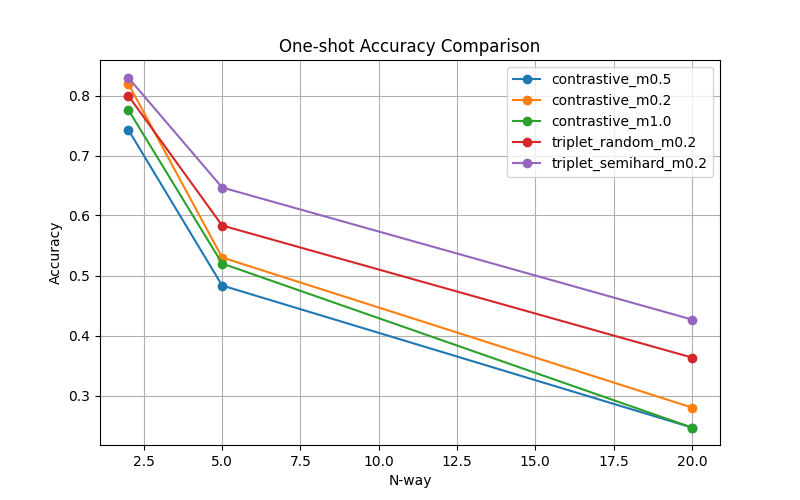
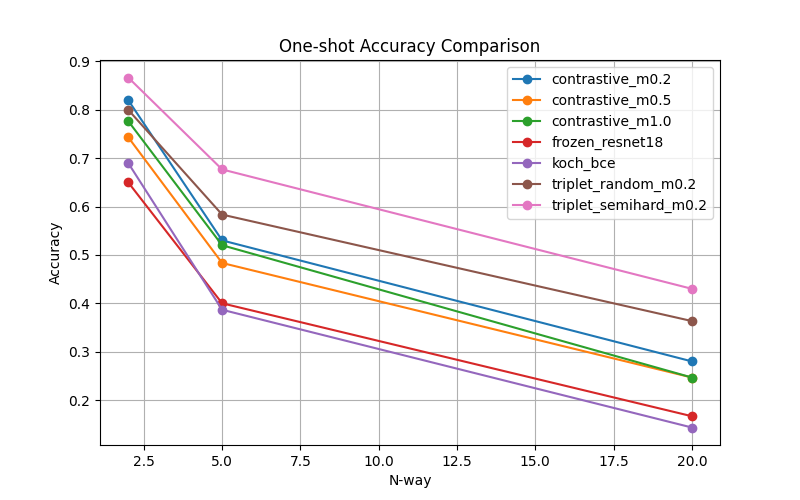
more

diff --git a/A2/eval/evaluate_oneshot_koch.py b/A2/eval/evaluate_oneshot_koch.py
@@ -1,0 +1,103 @@
+import os, json
+import numpy as np
+import sys
+sys.path.append(os.path.abspath(os.path.join(os.path.dirname(__file__), "..")))
+
+import torch
+from torchvision import transforms
+from PIL import Image
+
+from models.siamese_koch import SiameseKoch
+
+DEVICE = "cuda" if torch.cuda.is_available() else "cpu"
+
+EP_PATH = "results/oneshot/episodes_seed42.json"
+OUT_DIR = "results/oneshot"
+os.makedirs(OUT_DIR, exist_ok=True)
+
+MODEL_PATH = "results/experiment1_loss/koch_bce/20260521_132214/model_best.pth"
+
+transform = transforms.Compose([
+    transforms.Resize((105,105)),
+    transforms.ToTensor()
+])
+
+def fix_path(p: str) -> str:
+
+    if os.path.exists(p):
+        return p
+    p2 = p.replace("data/lfw2/", "data/lfwa/aligned_images/lfw2/")
+    if os.path.exists(p2):
+        return p2
+    p3 = p.replace("data/lfwa/aligned_images/lfw2/", "data/lfwa/aligned_images/")
+    if os.path.exists(p3):
+        return p3
+    return p  
+
+@torch.no_grad()
+def embed_image(model, path):
+    path = fix_path(path)
+    img = Image.open(path).convert("RGB")
+    x = transform(img).unsqueeze(0).to(DEVICE)
+    e = model.embed(x)           # [1, D]
+    return e.squeeze(0)          # [D]
+
+def l2(e1, e2):
+    return torch.sqrt(torch.sum((e1 - e2) ** 2) + 1e-9)
+
+def eval_oneshot(model, episodes, N):
+    eps = episodes[str(N)]
+    correct = 0
+
+    for ep in eps:
+        target = ep["target"]
+        query = ep["query"]
+        candidates = ep["candidates"]
+        support = ep["support"]
+
+        eq = embed_image(model, query)
+
+        best_id = None
+        best_d = 1e9
+        for cid in candidates:
+            es = embed_image(model, support[cid])
+            d = l2(eq, es).item()
+            if d < best_d:
+                best_d = d
+                best_id = cid
+
+        if best_id == target:
+            correct += 1
+
+    return correct / len(eps)
+
+def load_koch_model():
+    model = SiameseKoch().to(DEVICE)
+    ckpt = torch.load(MODEL_PATH, map_location=DEVICE)
+    state = ckpt["model_state"] if isinstance(ckpt, dict) and "model_state" in ckpt else ckpt
+    model.load_state_dict(state, strict=True)
+    model.eval()
+
+    return model
+
+def main():
+    with open(EP_PATH, "r") as f:
+        episodes = json.load(f)
+
+    model = load_koch_model()
+    N_LIST = [2, 5, 20]
+    results = {}
+
+    for N in N_LIST:
+        acc = eval_oneshot(model, episodes, N)
+        results[str(N)] = acc
+        print(f"koch_bce | {N}-way acc: {acc:.4f}")
+
+    out_path = os.path.join(OUT_DIR, "koch_bce_oneshot.json")
+    with open(out_path, "w") as f:
+        json.dump(results, f, indent=2)
+
+    print(f"✅ Saved: {out_path}")
+
+if __name__ == "__main__":
+    main()
